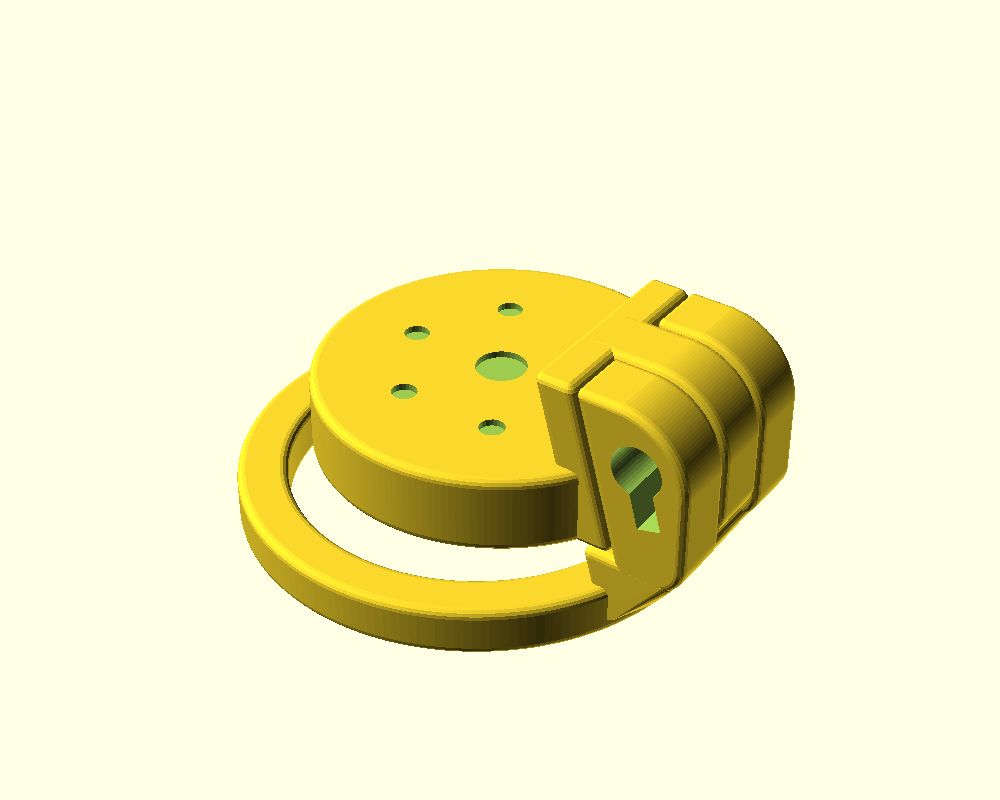
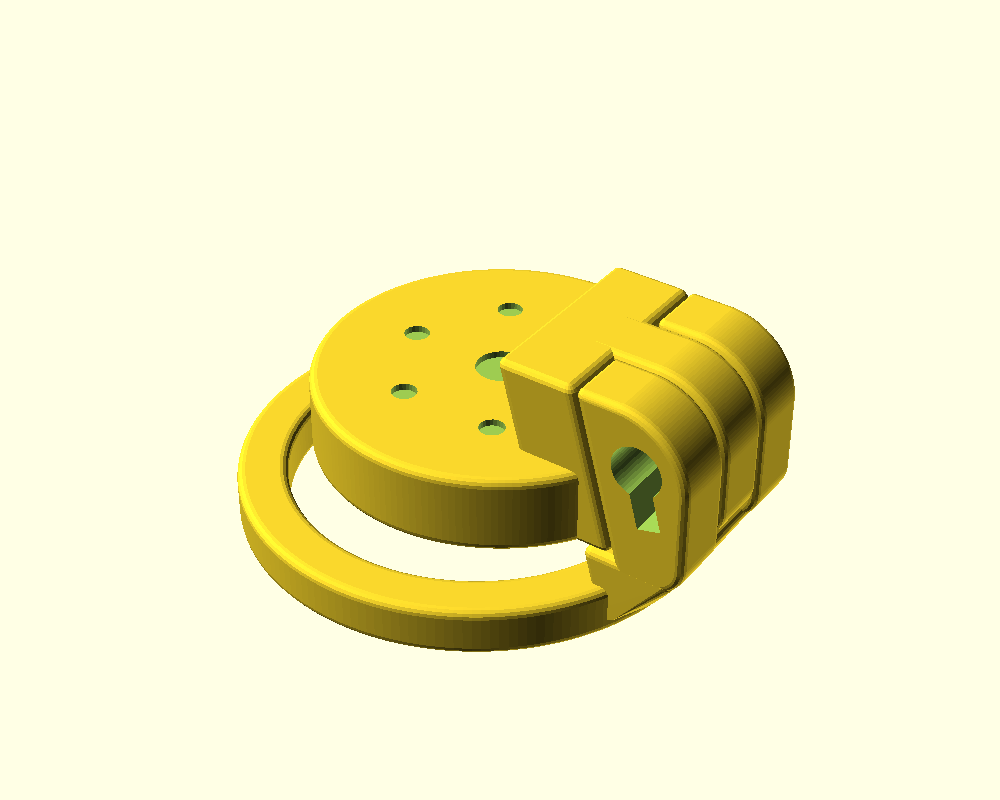
Add solid wall option, fix lock block and ring on closed shapes
- solid_wall: replace the bars and glans cap with a solid wall along the
  same path (solid_wall_thickness). The slit has rounded ends and a
  rounded lip; its cut faces are normal to the wall and the lip is built
  from exact torus segments, so it meets the wall without steps.
  slit_start / slit_end set how far the slit runs over the dome.
- Solid wall and flat top: cut the cage's own cavity out of the lock
  block and the ring, so nothing sticks into it. mount_arc is not built;
  the slab runs straight into the wall.
- Solid wall: the cage ring leans with the tilt, flush with the inner
  surface and at a constant offset outside.
- Fix the flat top's upright wall clashing with the base part's lock
  pieces: trim it (and the solid wall's ring) back to the plane the lock
  pieces slide on.
- README and screenshots.

Changed region(s): [[0.496, 0.4375, 0.558, 0.5938], [0.589, 0.3125, 0.651, 0.375]]

diff --git a/README.md b/README.md
@@ -16,6 +16,7 @@ This is a major overhaul of [Dani119's parametric chastity cage](https://www.thi
 ## What's new in this fork
 
 - **Custom lock.** The cage is built around a small cylinder lock modelled in Fusion 360 instead of the Holy-Trainer-style "stealth" lock.
+- **Solid wall.** The bars can be replaced by a solid wall of the same shape.
 - **Flat top.** You can build a flat cap instead of the barred cage: a wall ring closed by a plate with holes.
 - **Printable base rings.** The base ring and the cage ring can have a square or rounded-square cross-section instead of a round one.
 - **Bridge layer.** An optional thin layer under the flat plate lets the slicer bridge it cleanly.
@@ -50,6 +51,14 @@ The key goes into the shell end. The lock slides in cam-first from the key side.
 - `lock_clockwise` flips the turning direction. The default (clockwise) swings the cam toward the cage, where there is plenty of material. Turning the other way breaks through the outer wall of the case, so rework the case if your lock turns the other way.
 - `show_lock` draws the lock in place (preview only), in the unlocked or locked position.
 
+## Solid wall
+
+![Cage with a solid wall](images/solid_wall.png)
+
+With `solid_wall = 1`, the bars and the glans cap are replaced by a solid wall along the same path: the straight segment, the bend and a domed cap. The front slit (`slit_width`) is kept, with rounded ends and a rounded lip all around, like the bars. `slit_start` and `slit_end` set how far it runs, in degrees over the dome from its base on the lock side (90 = the tip, 180 = the base on the far side). The inner surface stays at `cage_diameter`, and the wall grows outward by `solid_wall_thickness`.
+
+The cage ring and the lock block follow the wall: the ring leans with `tilt` and is flush with the inner surface, and the lock block runs straight into the wall with nothing sticking into the cavity.
+
 ## Flat top
 
 ![Flat top variant](images/flat_top.png)
@@ -73,7 +82,7 @@ The wavy base ring (`wavy_base = 1`) always stays round. It needs supports eithe
 | Tab | Parameters |
 |---|---|
 | General | `separate_parts`, `flat_top`, `cage_diameter`, `tilt`, `gap` |
-| Cage | `penis_length`, `cage_bar_thickness`, `cage_bar_count`, `slit_width`, `bend_point_x`, `bend_point_z` |
+| Cage | `penis_length`, `cage_bar_thickness`, `cage_bar_count`, `solid_wall`, `solid_wall_thickness`, `slit_width`, `slit_start`, `slit_end`, `bend_point_x`, `bend_point_z` |
 | Flat top | `flat_wall_height`, `flat_plate_thickness`, `flat_center_hole`, `flat_hole_count`, `flat_hole_diameter`, `flat_hole_radius`, `flat_bridge_layer`, `flat_bridge_layer_thickness` |
 | Base ring | `base_ring_diameter`, `base_ring_thickness`, `base_ring_roundness`, `wavy_base`, `wave_angle` |
 | Lock | `lock_key_depth`, `lock_clockwise`, `show_lock` |
